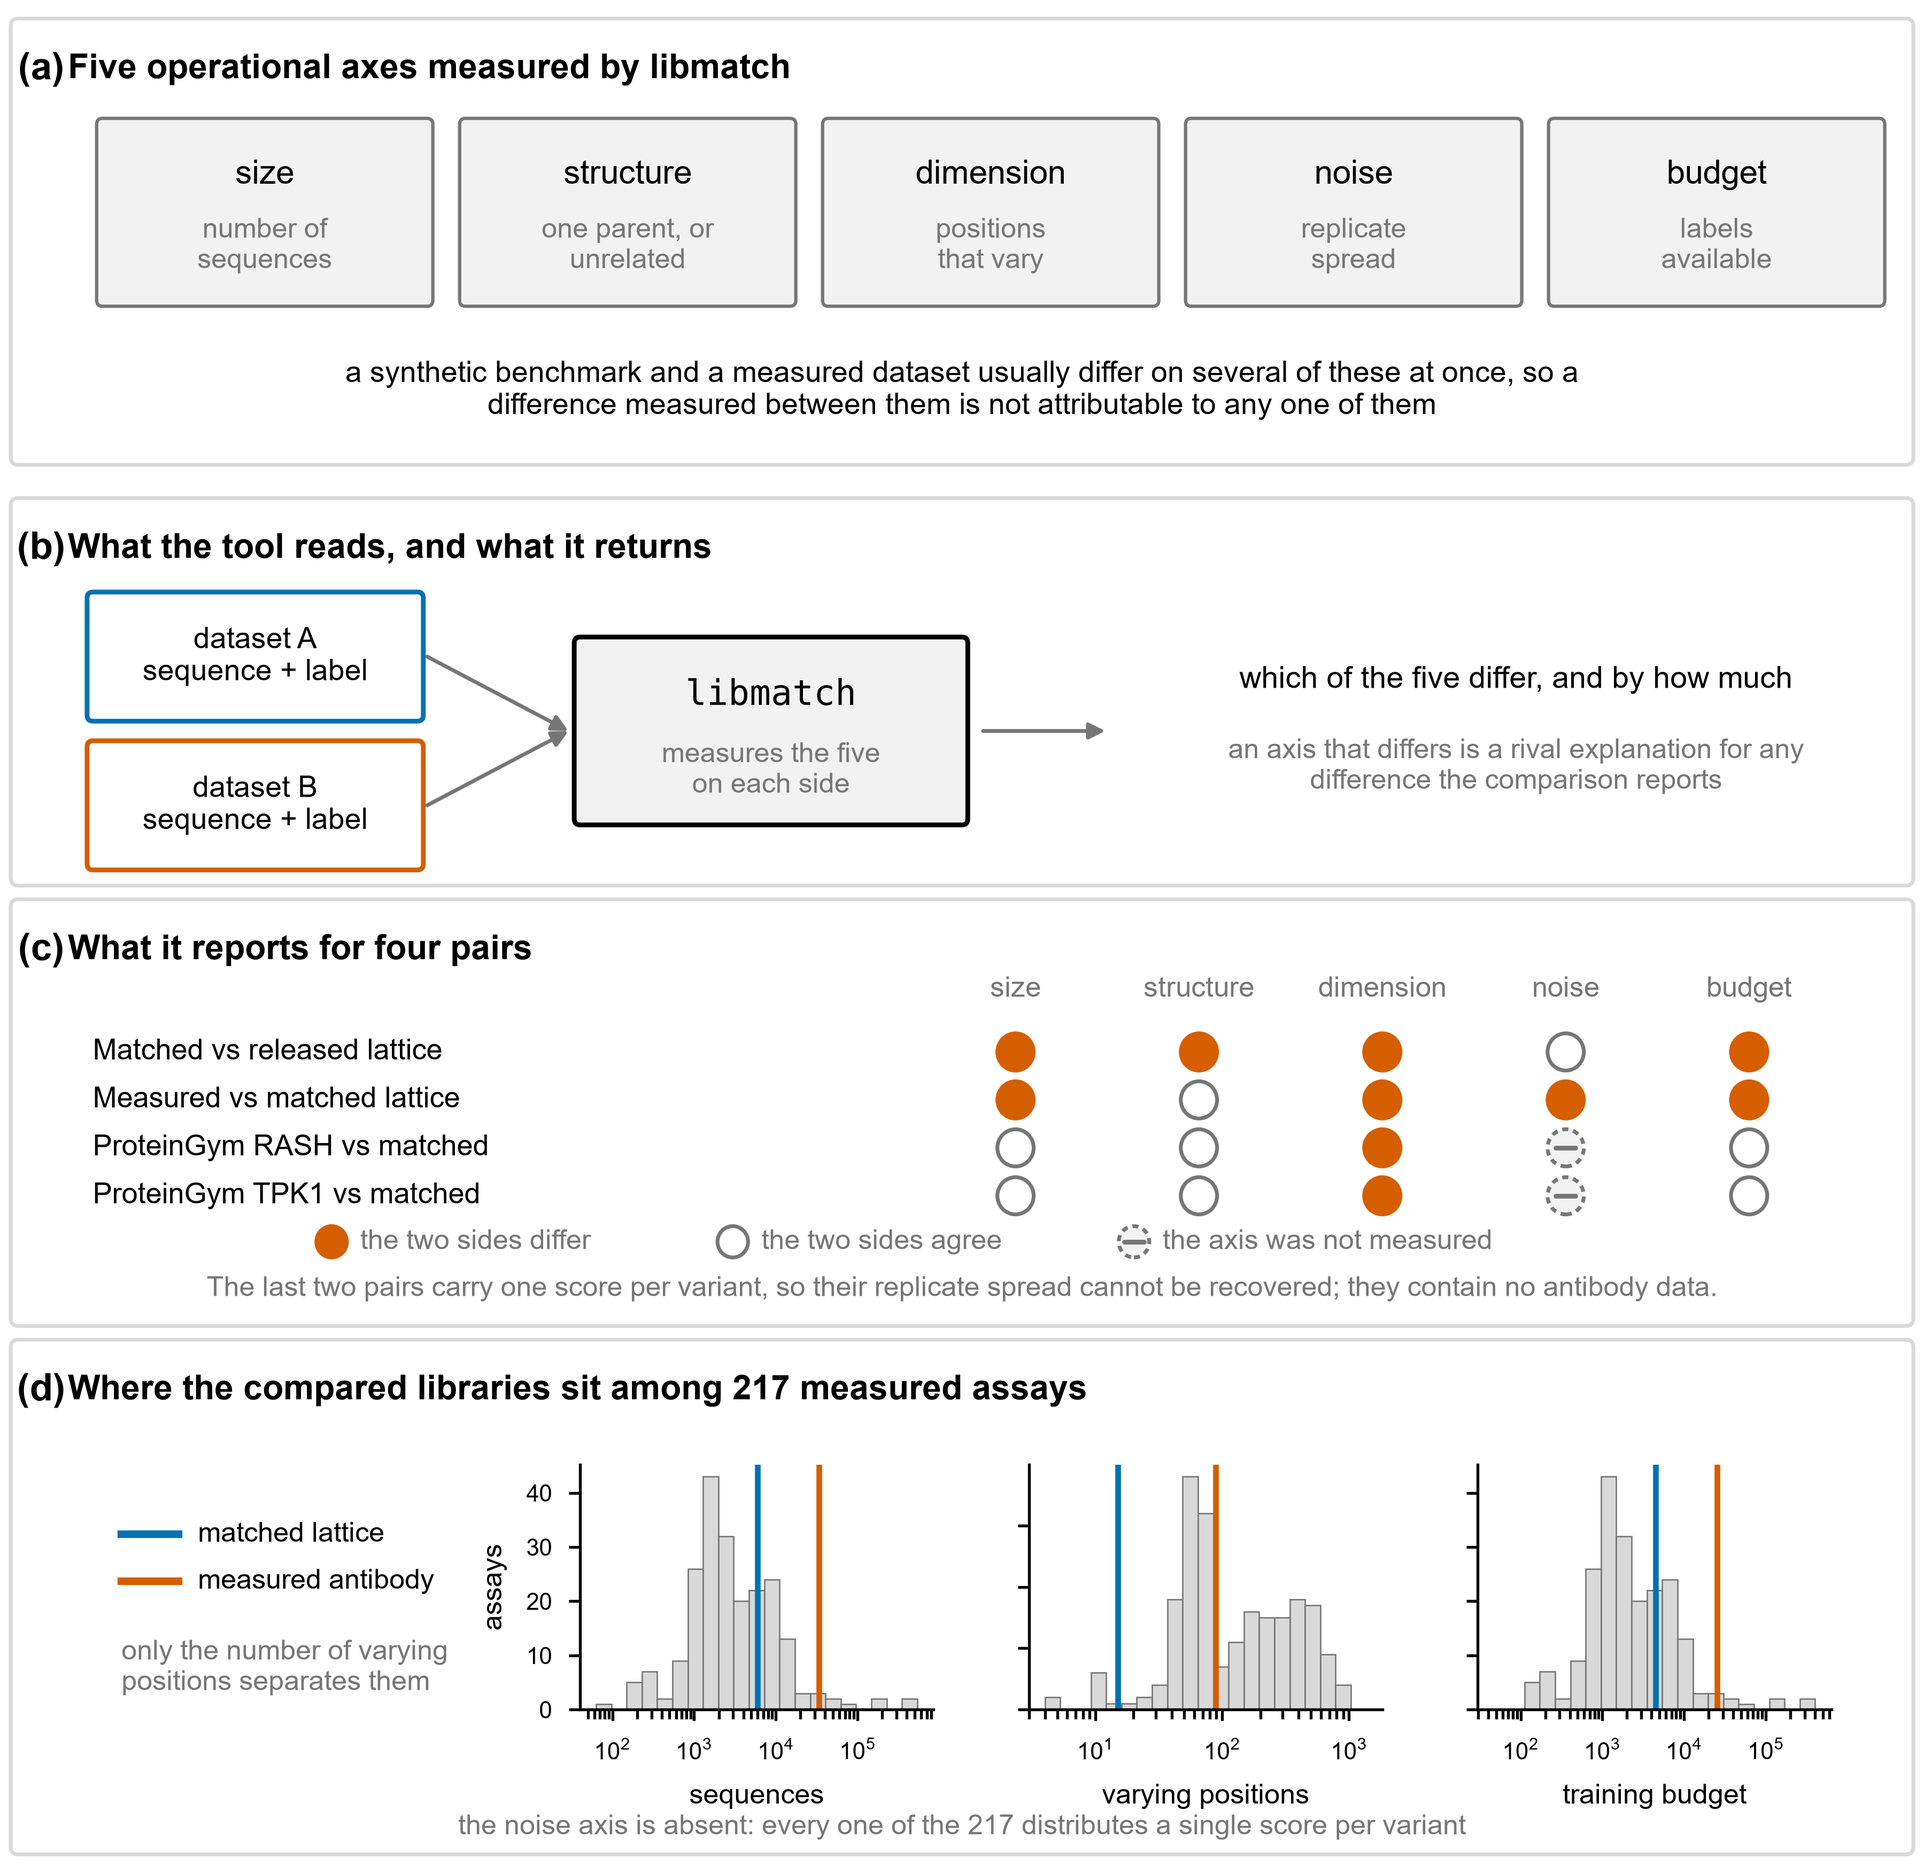
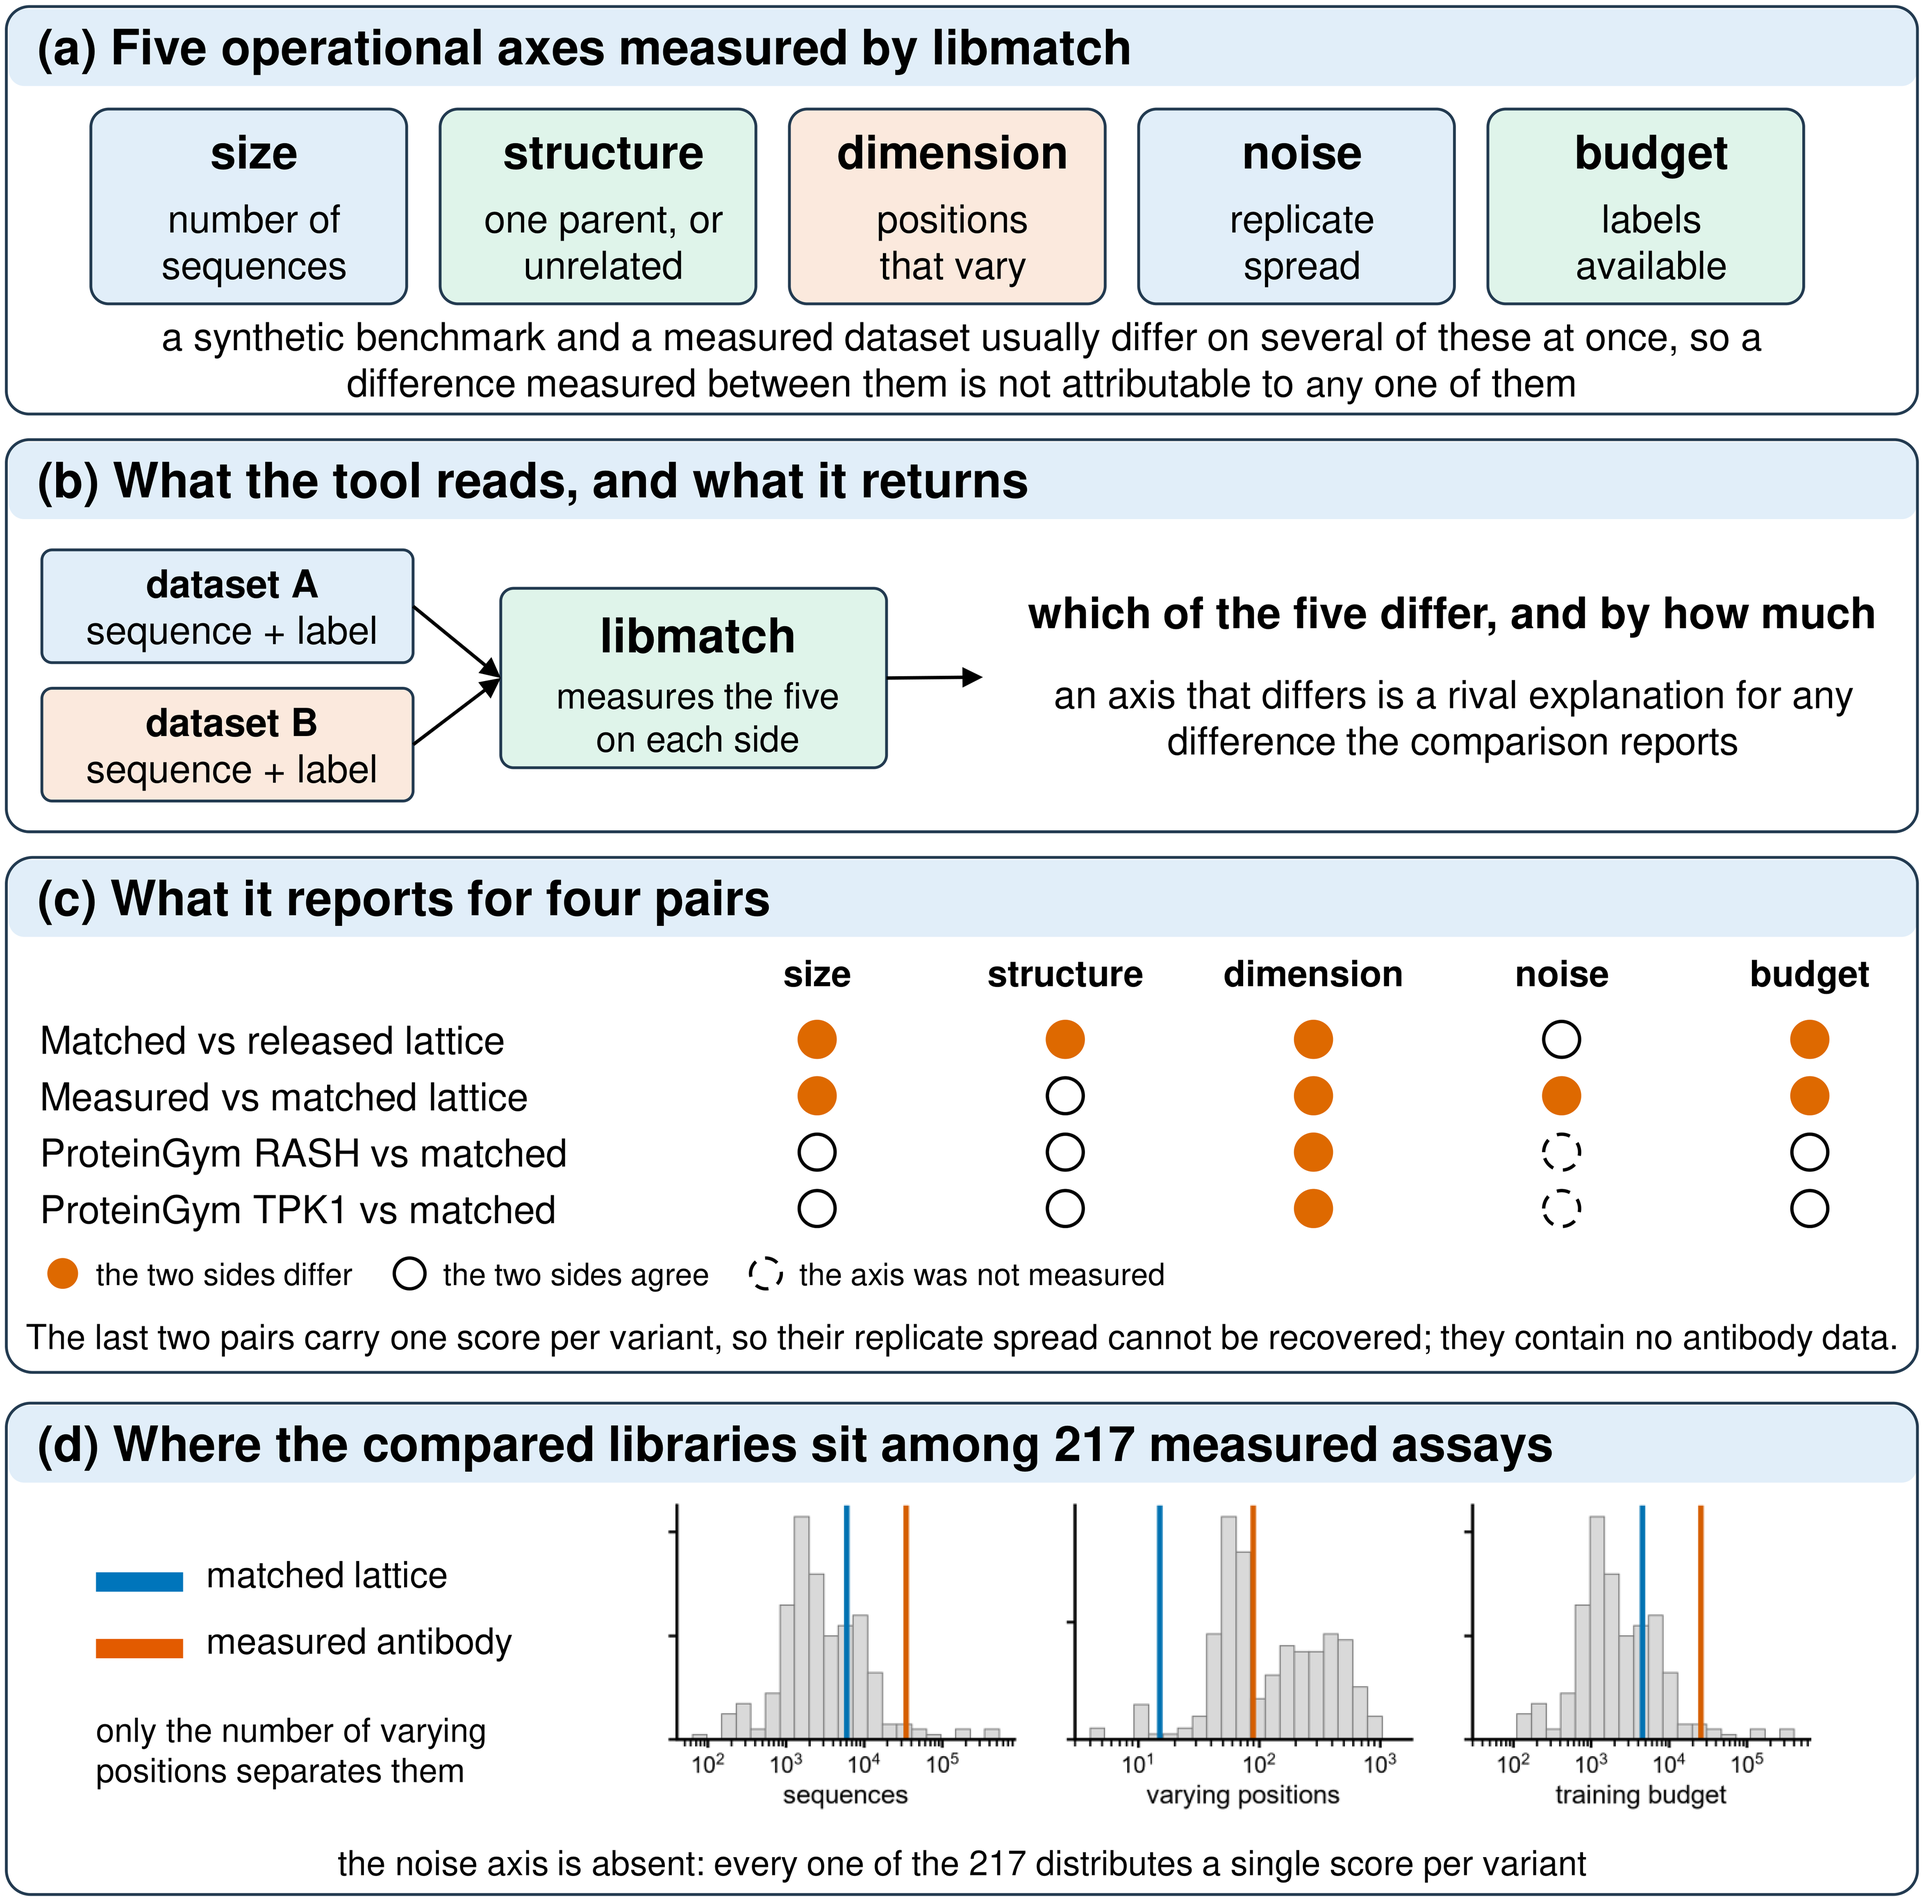
Finalize corrected figure assets and supplementary layout

diff --git a/manuscript/supplementary_information.tex b/manuscript/supplementary_information.tex
@@ -348,7 +348,7 @@ what any comparison drawn from released files can establish.
 
 \begin{figure}[htbp]
 \centering
-\includegraphics[width=\textwidth]{figs/F0.png}
+\includegraphics[width=0.84\textwidth]{figs/F0.png}
 \caption{What separates a benchmark from the data it stands in for.
 \textbf{(a)}, the five operational axes the tool measures. A synthetic
 benchmark and a measured dataset usually differ on several at once, which is

diff --git a/REPRODUCTION.md b/REPRODUCTION.md
@@ -6,9 +6,11 @@ The repository holds 266 scripts, most of them exploratory work that is not repo
 
 ## Figures, supplementary tables and checks
 
+Three figures are marked *typeset in PowerPoint*: the script named beside them computed what they show, but the published file was laid out by hand from its output, so re-running the script reproduces the content and not the file.
+
 | Artefact | File | Generated by |
 |---|---|---|
-| Figure 1 | `manuscript/figs/F11.png` | `src/fig_overview.py` |
+| Figure 1 | `manuscript/figs/F11.png` | `src/fig_overview.py`, typeset in PowerPoint |
 | Figure 2 | `manuscript/figs/F9.png` | `src/fig_binding.py` |
 | Figure 3 | `manuscript/figs/F2.png` | `src/fig_matching_limits.py` |
 | Figure 4 | `manuscript/figs/F4.png` | `src/figs_journal.py` |
@@ -29,11 +31,11 @@ The repository holds 266 scripts, most of them exploratory work that is not repo
 | Table S20 | `-` | `src/si_table_transfer.py` |
 | Table S21 | `-` | `src/si_table_alpha.py` |
 | Supplementary Figure S1 | `manuscript/figs/SFig1.png` | `src/figs_journal.py` |
-| Supplementary Figure S2 | `manuscript/figs/F1.png` | `src/figs_journal.py` |
+| Supplementary Figure S2 | `manuscript/figs/F1.png` | `src/figs_journal.py`, typeset in PowerPoint |
 | Supplementary Figure S3 | `manuscript/figs/F3.png` | `src/fig_matching_limits.py` |
 | Supplementary Figure S4 | `manuscript/figs/F5.png` | `src/figs_journal.py` |
 | Supplementary Figure S5 | `manuscript/figs/F7.png` | `src/fig_oracle_scope.py` |
-| Supplementary Figure S6 | `manuscript/figs/F0.png` | `src/fig_axes_schematic.py` |
+| Supplementary Figure S6 | `manuscript/figs/F0.png` | `src/fig_axes_schematic.py`, typeset in PowerPoint |
 | Supplementary Figure S6c verdicts | `-` | `src/table_libmatch.py` |
 | Supplementary Figure S6d distribution | `-` | `src/profile_proteingym.py` |
 | Supplementary Figure S7 | `manuscript/figs/F10.png` | `src/fig_zoo_transfer.py` |

diff --git a/README.md b/README.md
@@ -29,7 +29,7 @@ Each number in the article and its supplement comes from a table in
 `results/`, written by one script in `src/`. **[REPRODUCTION.md](REPRODUCTION.md)**
 maps every figure, table and check to the script that produced it, lists the
 dependency order, and records the environment the bundle was verified in. It
-is generated from the source, so it cannot drift from the code.
+is generated from the source, so it cannot drift from the code. Three figures -- Figure 1, Supplementary Figure S2 and Supplementary Figure S6 -- were laid out by hand from what their script draws: fonts, row labels and column widths were corrected in PowerPoint, and the PNG in `manuscript/figs/` is the published asset. Re-running those scripts reproduces what the figures show, not the file.
 
 ## Layout
 
